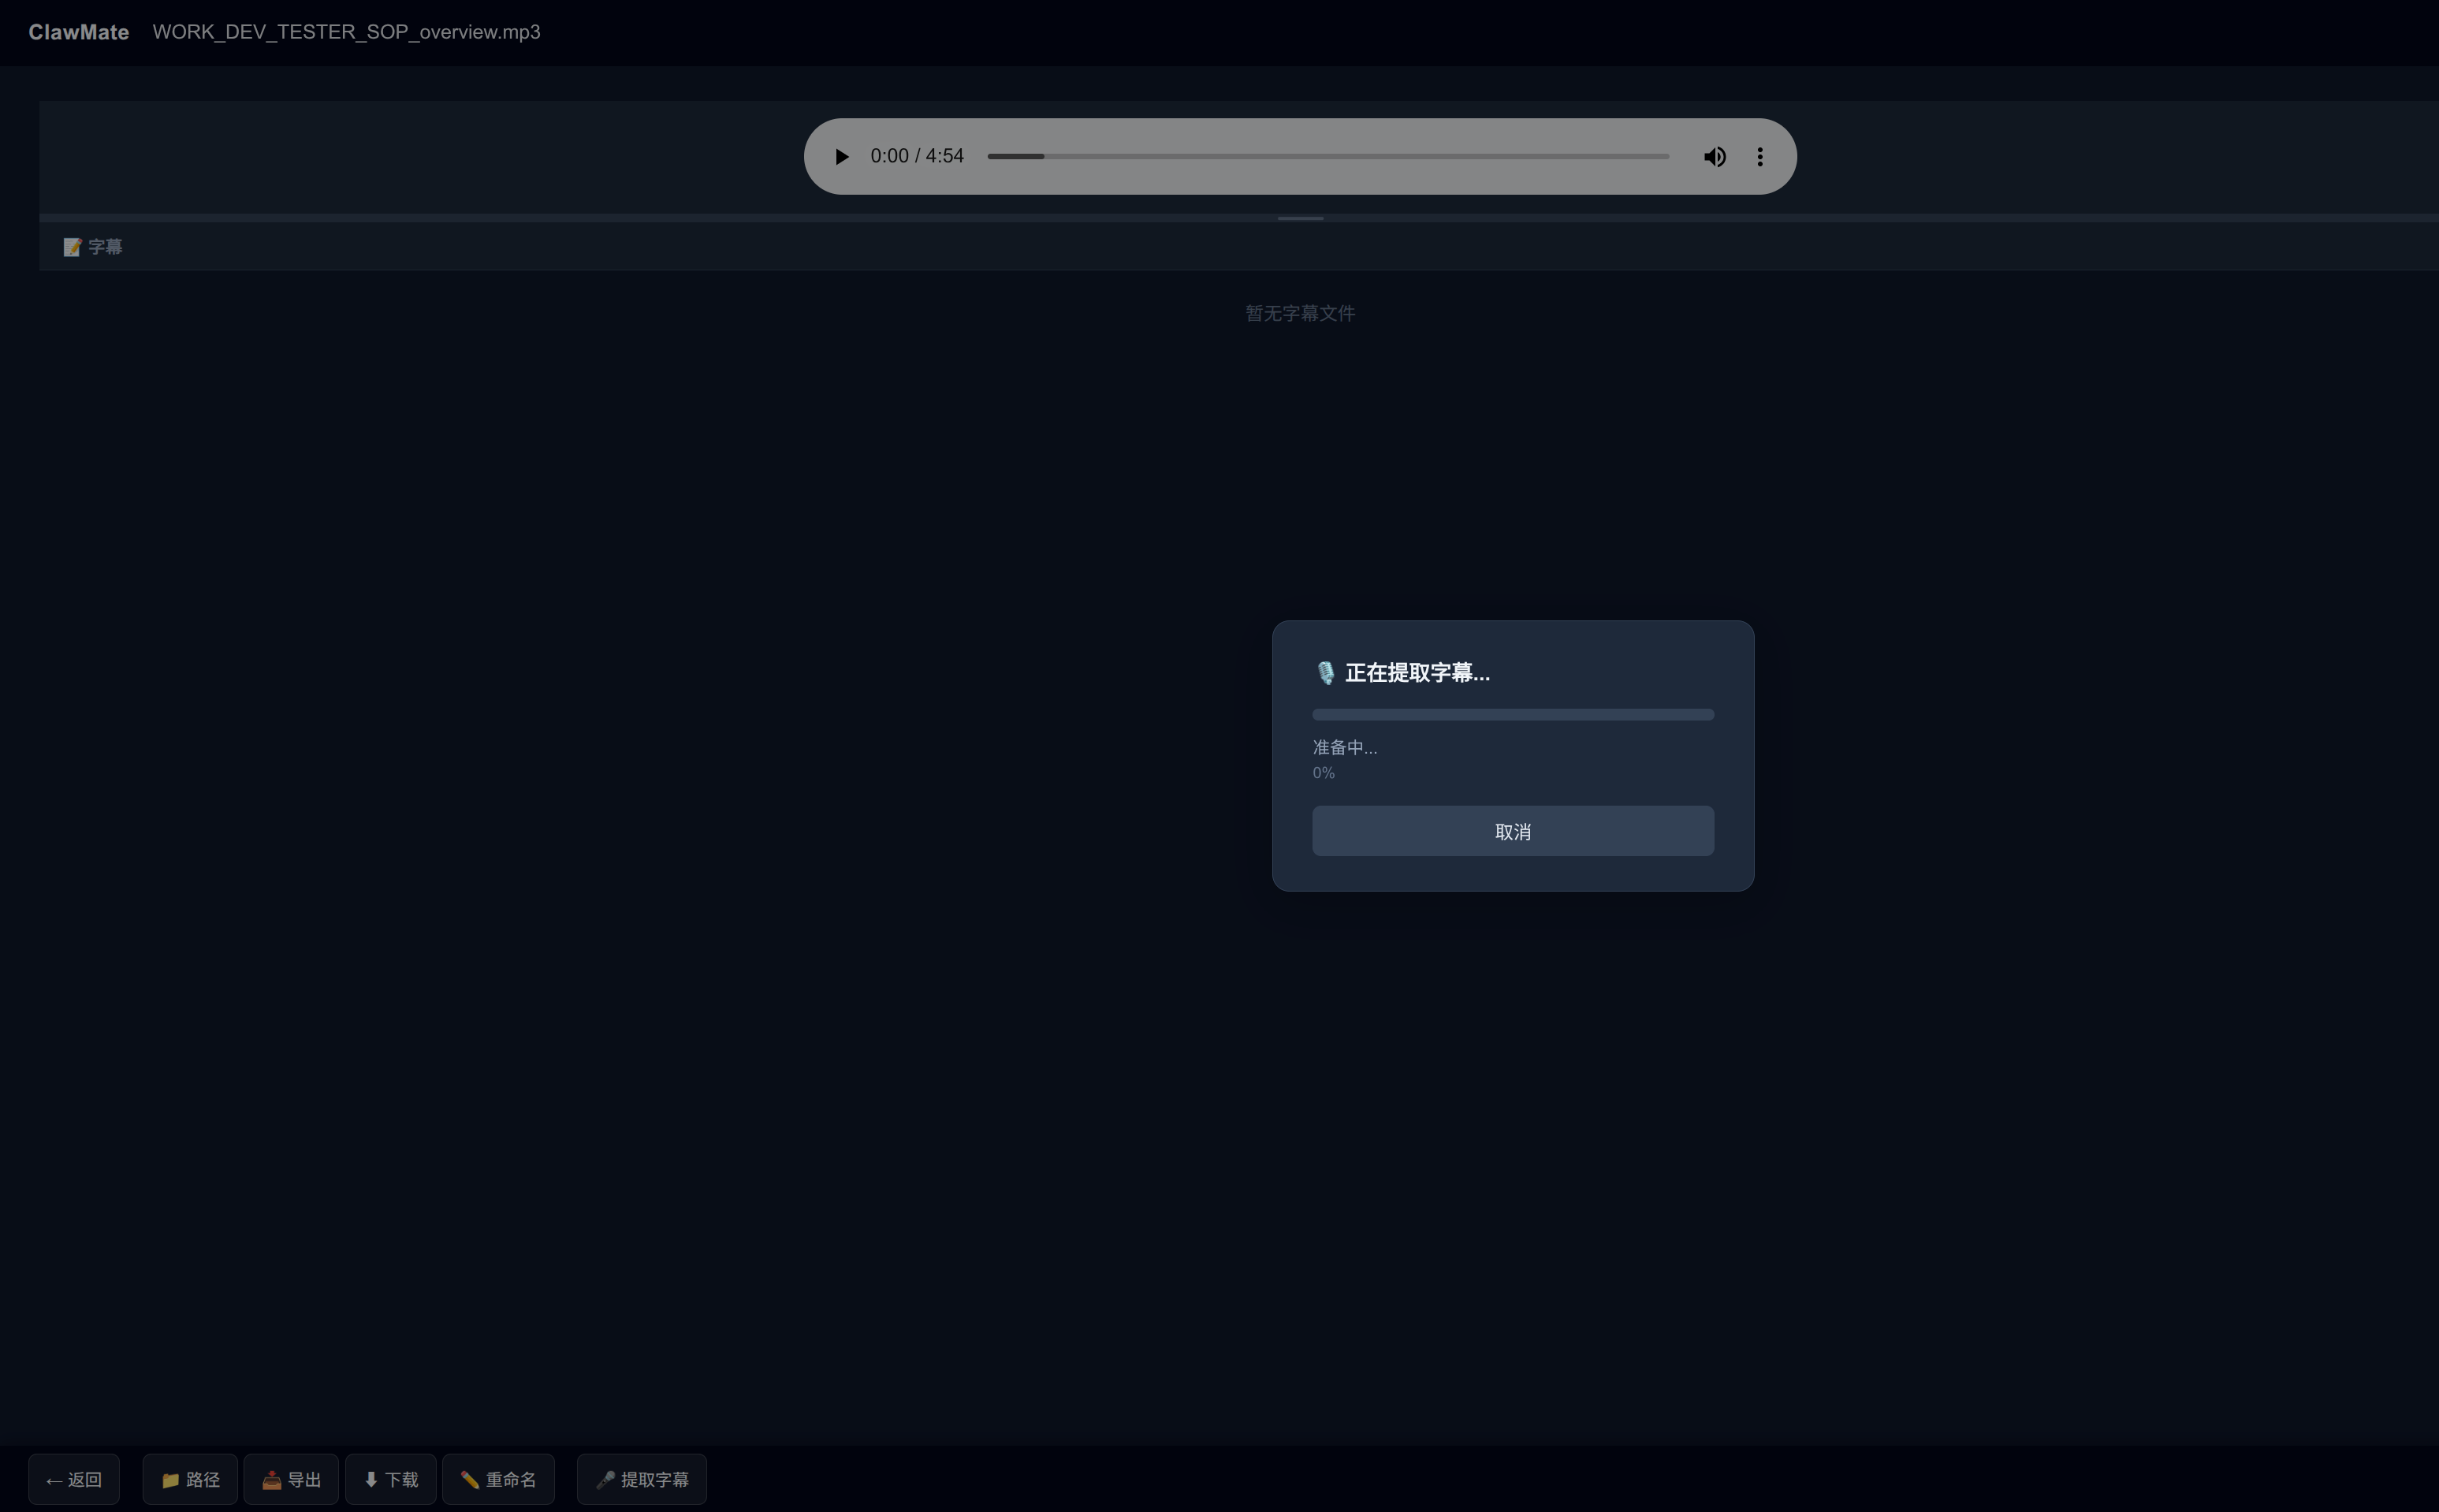
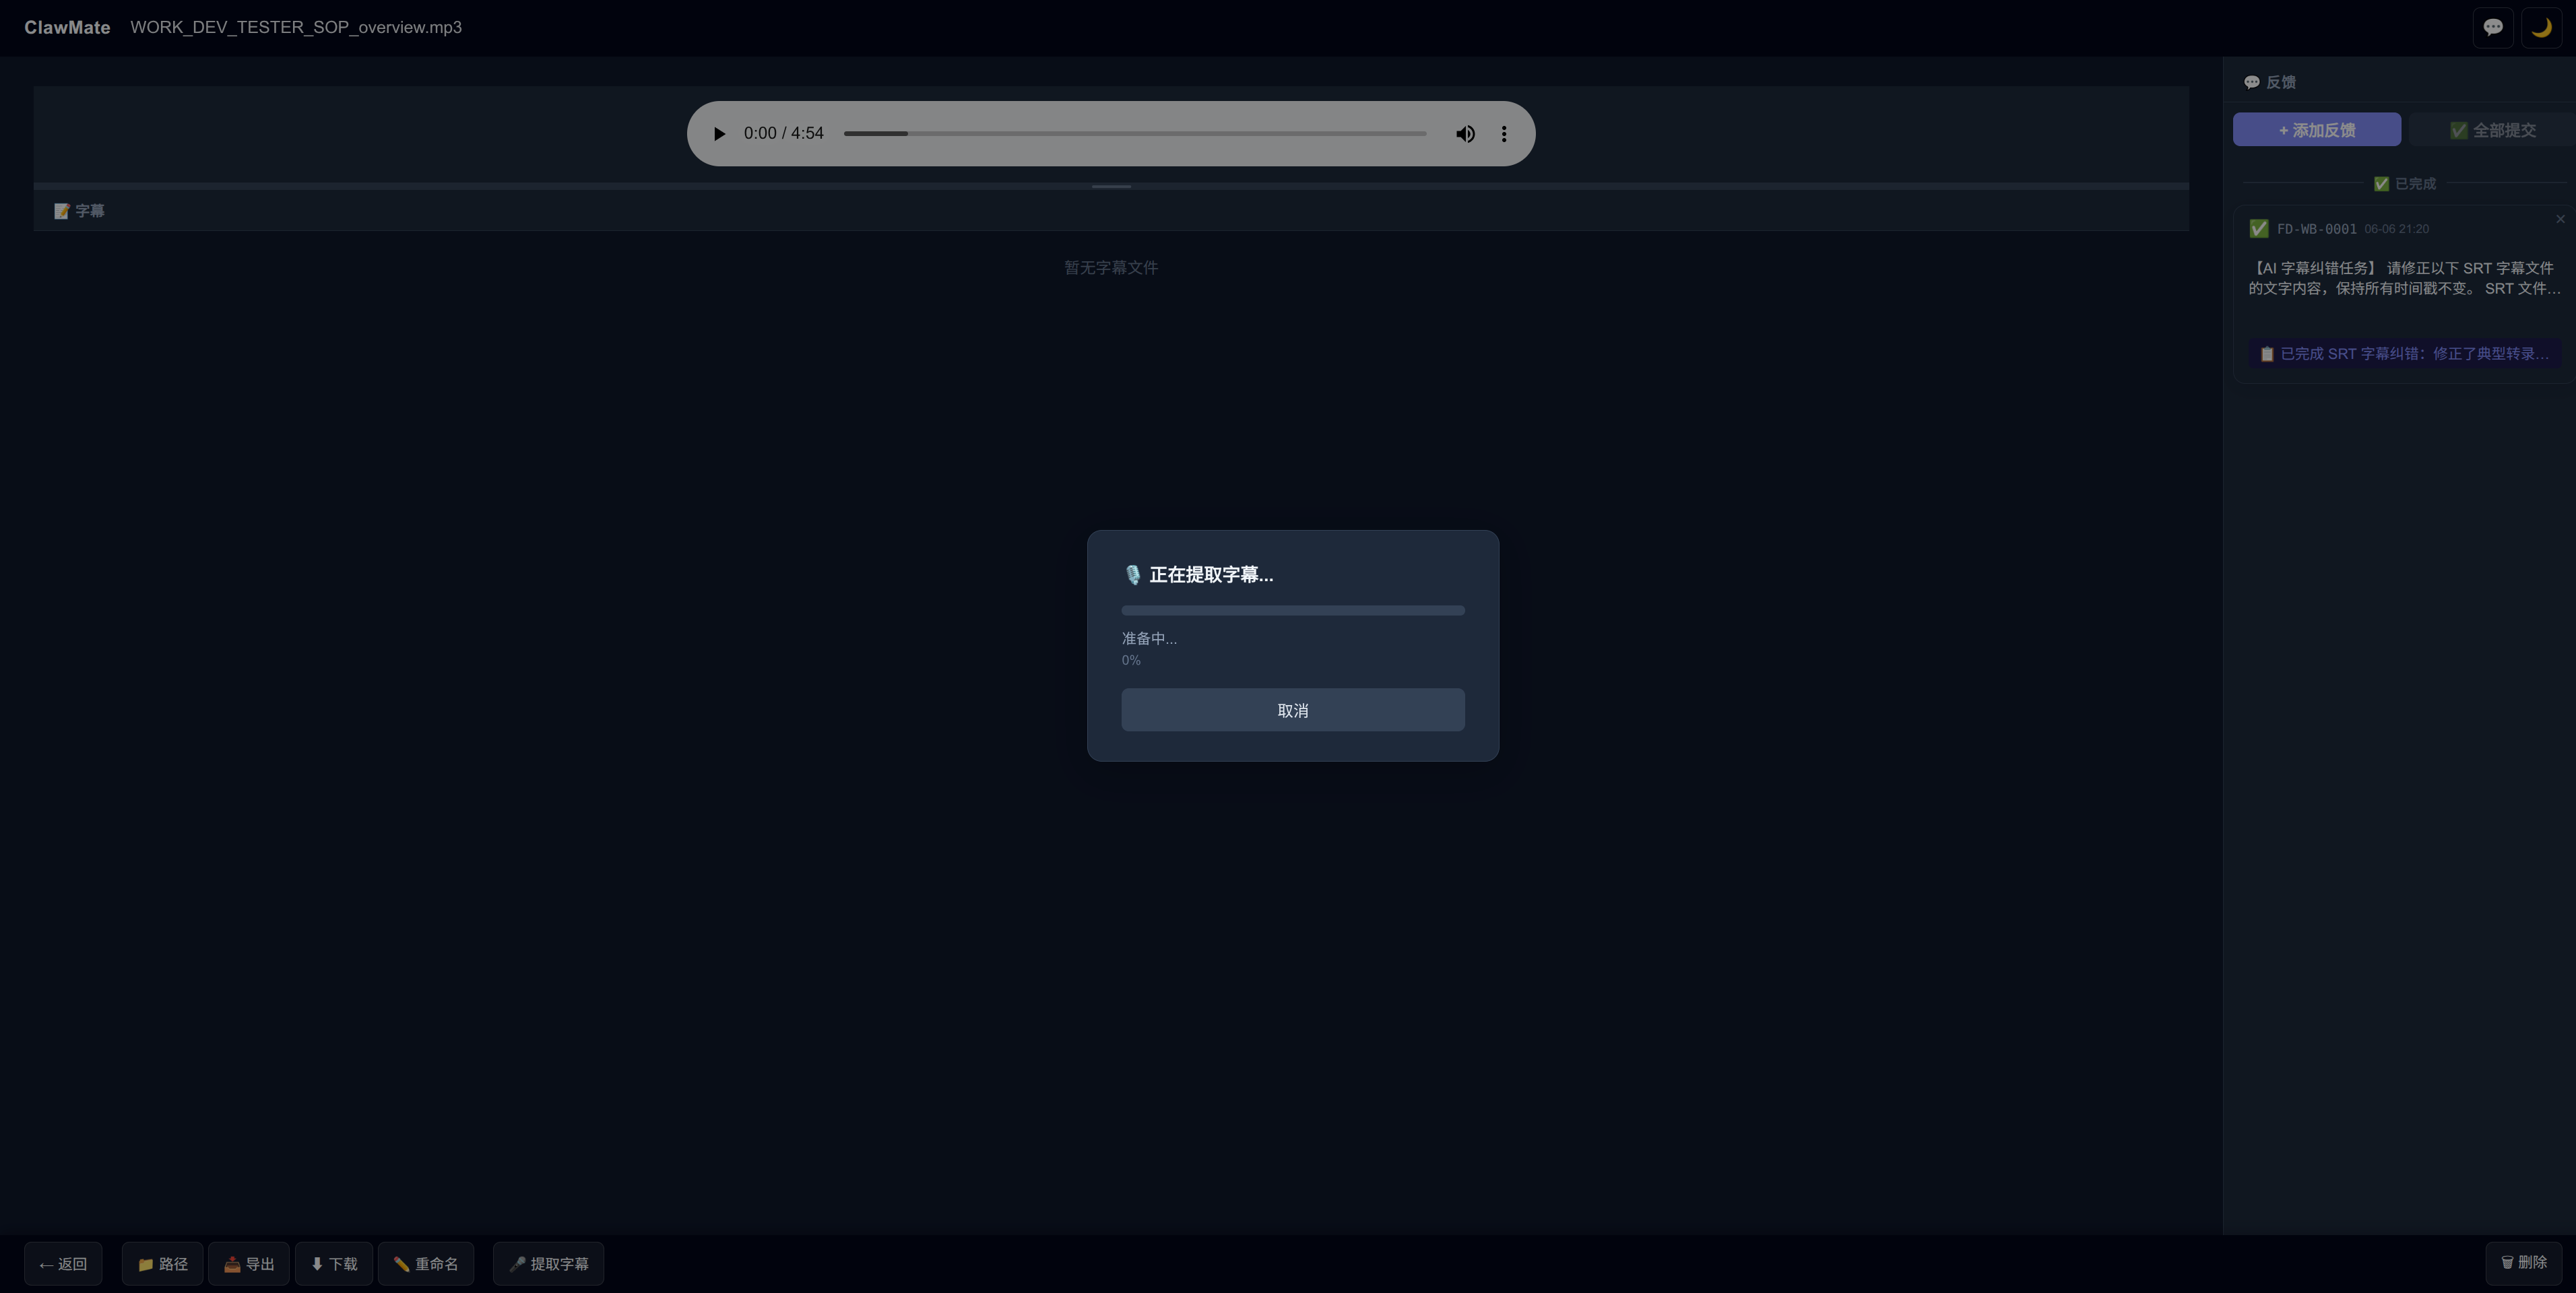
baseline: 提交当前工作区状态为项目起点
包含 research/task-template-unified.md 方案文档
README.md 更新 + 截图替换

diff --git a/README.md b/README.md
@@ -16,32 +16,12 @@ ClawMate 的解法是：
 - **在线管理 Agent 产出**，Agent 生成文件时直接返回可点击的预览链接，直接进行内容评审。
 - **即时交互反馈**：预览时发现问题 → 直接选中文本 → 填写备注 → 提交 → Agent 自动修改，无需跳出工作流
 - **评审、反馈、修订闭环**，不需要在多个窗口间来回切换，拷贝粘贴。
-- **不仅支持代码和文档**：也支持对 Office 文档、音乐、视频等内容的评审与建议反馈，功能还在完善中。
-
-## 截图
-
-| 多项目、多目录管理 | 手动添加反馈 | 创建反馈 |
-|:---:|:---:|:---:|
-| ![多项目目录管理](assets/cm-desktop-file-manage.jpg) | ![添加反馈操作](assets/cm-desktop-add-feedback.jpg) | ![创建反馈](assets/cm-desktop-create-feed.png) |
-
-| 反馈处理结果 | SRT 字幕提取 | SRT 字幕纠错 |
-|:---:|:---:|:---:|
- | ![反馈处理结果](assets/cm-desktop-review-feedback.jpg) | ![SRT 字幕提取](assets/cm-destkop-extract-srt.png) | ![SRT 字幕纠错](assets/cm-desktop-srt-correct.png) |
+- **不仅支持代码和文档**：也支持对 图片、Office 文档、音乐、视频等内容的评审与建议反馈，功能还在完善中。
 
 ## 核心工作流
 
-```mermaid
-flowchart LR
-    A[Agent 产出文件] -->|写入目录| B[用户打开预览链接]
-    B --> C[preview.html 全屏渲染<br>Mermaid / KaTeX / Office / 视频 / 代码]
-    C --> D{发现问题?}
-    D -->|是| E[选中文本 → 填写备注 → 提交]
-    E --> F[写入 feedback.json<br>即时唤醒 Agent]
-    F --> G[Agent 读取反馈<br>精确定位 → 修改文件]
-    G --> H[更新反馈状态<br>done / failed]
-    H --> B
-    D -->|否| I[完成]
-```
+![核心工作流](assets/openclaw-clawmate-collaboration-loop.png)
+
 
 ---
 
@@ -106,6 +86,16 @@ stateDiagram
 
 ---
 
+## 截图
+
+| 多项目、多目录管理 | 手动添加反馈 | 创建反馈 |
+|:---:|:---:|:---:|
+| ![多项目目录管理](assets/cm-desktop-file-manage.jpg) | ![添加反馈操作](assets/cm-desktop-add-feedback.jpg) | ![创建反馈](assets/cm-desktop-create-feed.png) |
+
+| 反馈处理结果 | SRT 字幕提取 | SRT 字幕纠错 |
+|:---:|:---:|:---:|
+ | ![反馈处理结果](assets/cm-desktop-review-feedback.jpg) | ![SRT 字幕提取](assets/cm-destkop-extract-srt.png) | ![SRT 字幕纠错](assets/cm-desktop-srt-correct.png) |
+
 ## 架构
 
 ```mermaid
@@ -119,7 +109,7 @@ flowchart TD
     D --> H[store.py: 反馈存储引擎]
     B --> I[Webhook /hooks/agent]
     I --> J[OpenClaw Gateway]
-    J --> K[Agent 处理反馈]
+    J --> K[选择Agent 处理反馈]
     K -->|修改文件| E
     B -.-> L[Cron Job 兜底]
     L -.->|每 N 小时| B
@@ -233,6 +223,31 @@ pip install faster-whisper
 
 ## ClawMate Skill（OpenClaw 集成）
 
+## 安装到 OpenClaw
+
+Skill 目录位于 `skills/clawmate/`，包含 `SKILL.md`（命令定义）、`_meta.json`（元数据）、`LICENSE.txt`。
+
+### 方法一：复制到 OpenClaw 技能目录（推荐）
+
+```bash
+# 将 clawmate skill 链接到 OpenClaw 技能目录
+ln -sf $PWD/skills/clawmate ~/.openclaw/skills/clawmate
+# 重启 OpenClaw 使其生效
+openclaw gateway restart
+```
+
+### 验证安装
+
+安装后，在 OpenClaw 会话中执行以下命令测试：
+
+```
+/clawmate link README.md
+```
+
+若返回可点击预览链接，则安装成功。也可通过 `/clawmate list` 确认 skill 已加载。
+
+---
+
 项目中包含 OpenClaw Skill，提供以下 Slash Commands：
 
 ### `/clawmate link <filename>`
@@ -288,32 +303,44 @@ pip install faster-whisper
 
 ### 认证
 
-ClawMate 支持基于 cookie session 的登录认证。设置 `auth.password_hash` 启用：
+ClawMate 支持基于 cookie session 的登录认证。设置 `config.json` 中的 `auth.password_hash` 启用：
+
+#### 方法一：使用 ClawMate 交互式工具（推荐）
 
 ```bash
 python3 main.py --set-password
 ```
 
-启用后所有外部访问需要先登录，127.0.0.1 本地访问自动绕过。
+按提示输入密码，工具自动生成 bcrypt hash 并写入 `config.json`。
+
+#### 方法二：手动生成 hash
+
+使用 Python 一行命令生成 bcrypt hash：
+
+```bash
+python3 -c "import bcrypt; print(bcrypt.hashpw(b'你的密码', bcrypt.gensalt()).decode())"
+```
+
+> 示例输出：`$2b$12$XXXXXXXXXXXXXXXXXXXXXXXXXXXXXXXXXXXXXXXXXXXXXXXXXXXXXXXXXXXX`
+> - `$2b$` — bcrypt 算法标识
+> - `12` — 加密轮次（cost factor，默认 12）
+> - 后续字符 — salt + 加密后的 hash
+
+将生成的 hash 填入 `config.json`：
+
+```json
+{
+  "auth": {
+    "username": "admin",
+    "password_hash": "$2b$12$..."
+  }
+}
+```
+
+启用认证后，所有外部访问需要先登录。`127.0.0.1` 本地访问自动绕过认证。
 
 ---
 
-## 产品状态
-
-| 维度 | 状态 |
-|------|:----:|
-| 文件管理（目录浏览/排序/过滤/搜索） | ✅ v1.0 |
-| Markdown 预览（Mermaid/KaTeX/语法高亮） | ✅ v1.0 |
-| Mermaid 缩放（Ctrl+滚轮/按钮/拖拽） | ✅ v1.5 |
-| 代码大纲（函数/类定义导航） | ✅ v1.5 |
-| ONLYOFFICE Office/PDF 预览 | ✅ v1.3 |
-| 图片预览 + 上一页/下一页导航 | ✅ v1.5 |
-| 音视频播放 + SRT 字幕编辑 | ✅ v1.3 |
-| 反馈闭环（选中→提交→Agent 处理） | ✅ v1.3 |
-| 移动端适配（首页/预览/反馈/大纲） | ✅ v1.5 |
-| Docker 部署 | ✅ v1.5 |
-| Slash Commands 集成 | ✅ v1.1 |
-| Daemon 部署（Systemd） | ✅ |
 
 ---
 